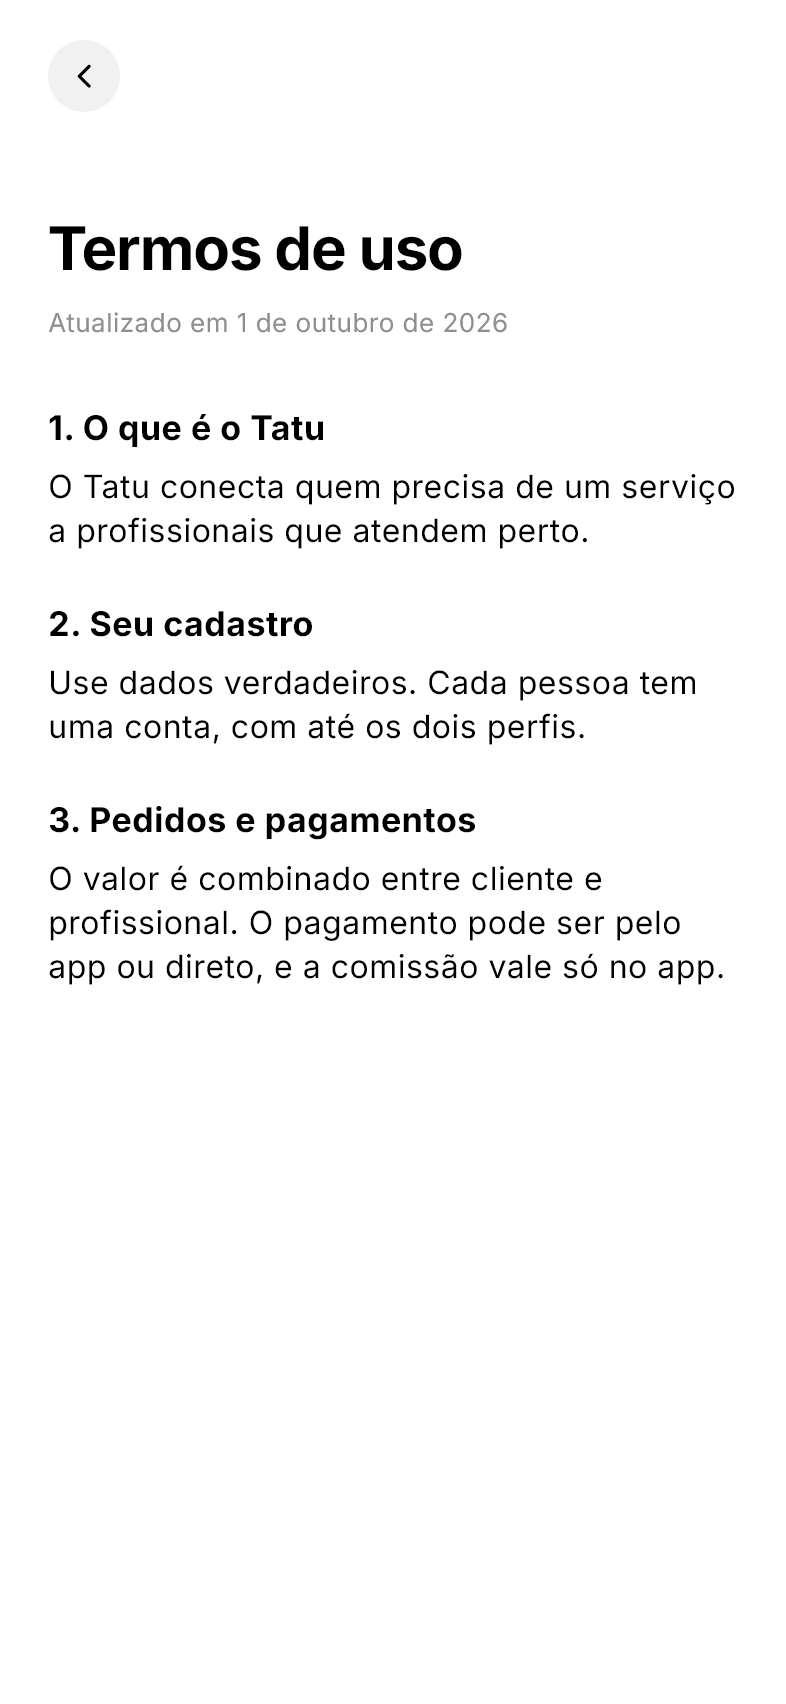
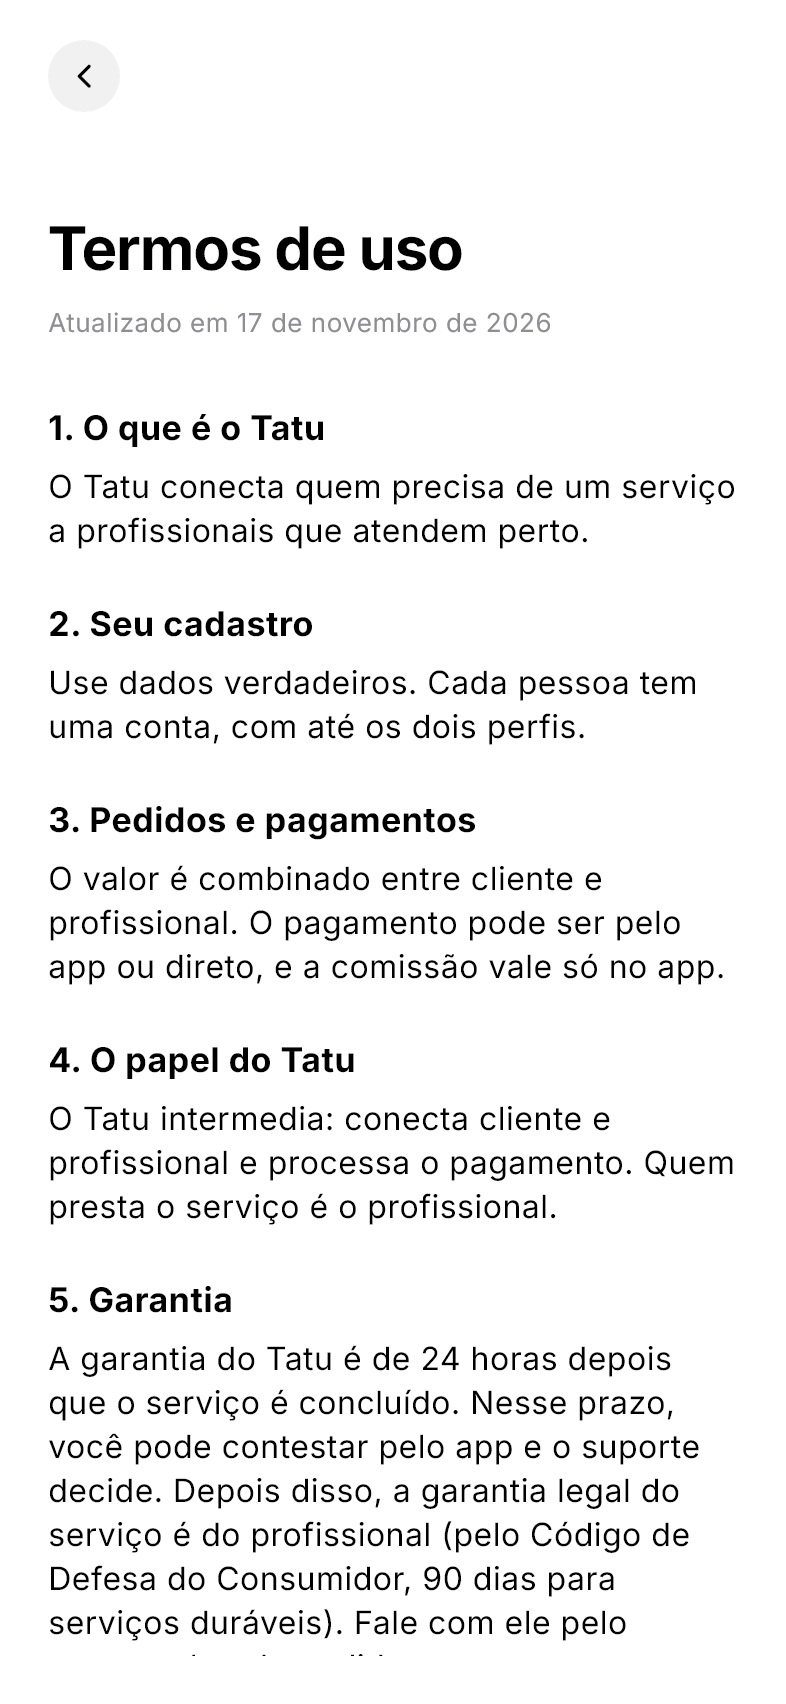
docs: regras v11 e textos da garantia de 24 horas (RN-107, RN-108)
Termos de uso: o Tatu intermedia, garantia do Tatu de 24 horas e garantia legal do serviço com o profissional (TODO de revisão jurídica). Artigo "Como pedir reembolso?" explica o antes e o depois das 24 horas. Os textos do chat dizem "garantia de 24h". RN-109 (fase 2) não foi implementada.

diff --git a/app/test/garantia_test.dart b/app/test/garantia_test.dart
@@ -1,0 +1,43 @@
+import 'dart:io';
+
+import 'package:flutter_test/flutter_test.dart';
+import 'package:tatu/data/ajuda.dart';
+import 'package:tatu/data/documentos.dart';
+
+/// Garantia do Tatu de 24 horas (RN-45, RN-107, RN-108).
+void main() {
+  test('RN-108: termos dizem que o Tatu intermedia e a garantia é de 24 h', () {
+    final texto = termosDeUso.secoes.map((s) => '${s.$1} ${s.$2}').join(' ');
+    expect(texto, contains('O Tatu intermedia'));
+    expect(texto, contains('A garantia do Tatu é de 24 horas'));
+    expect(texto, contains('garantia legal do serviço é do profissional'));
+    expect(texto, contains('Código de Defesa do Consumidor'));
+  });
+
+  test('RN-107: depois de 24 h, chama o profissional pelo mesmo chat', () {
+    final secoes = {for (final s in artigoReembolso.secoes) s.$1: s.$2};
+    expect(secoes.keys, ['Em até 24 horas', 'Depois de 24 horas']);
+    expect(secoes['Depois de 24 horas'], contains('mesmo chat'));
+    expect(secoes['Depois de 24 horas'], contains('outro profissional'));
+  });
+
+  test('RN-107: nenhum texto do app promete garantia sem prazo', () {
+    final semPrazo = <String>[];
+    final aspas = RegExp(r"'([^']*garantia[^']*)'", caseSensitive: false);
+    for (final f in Directory('lib').listSync(recursive: true)) {
+      if (f is! File || !f.path.endsWith('.dart')) continue;
+      for (final linha in f.readAsLinesSync()) {
+        if (linha.trimLeft().startsWith('//')) continue;
+        for (final m in aspas.allMatches(linha)) {
+          final t = m.group(1)!;
+          final temPrazo =
+              t.contains('24') || t.toLowerCase().contains('garantia legal');
+          // Títulos de seção ("5. Garantia") não prometem nada.
+          final titulo = RegExp(r'^\d+\. ').hasMatch(t);
+          if (!temPrazo && !titulo) semPrazo.add('${f.path}: $t');
+        }
+      }
+    }
+    expect(semPrazo, isEmpty);
+  });
+}

diff --git a/app/lib/data/documentos.dart b/app/lib/data/documentos.dart
@@ -7,9 +7,11 @@ class Documento {
   final List<(String titulo, String texto)> secoes;
 }
 
+// TODO(jurídico): revisar os Termos de uso com advogado antes do
+// lançamento, principalmente as seções 4 e 5 (RN-108).
 const termosDeUso = Documento(
   'Termos de uso',
-  'Atualizado em 1 de outubro de 2026',
+  'Atualizado em 17 de novembro de 2026',
   [
     (
       '1. O que é o Tatu',
@@ -22,6 +24,22 @@ const termosDeUso = Documento(
     (
       '3. Pedidos e pagamentos',
       'O valor é combinado entre cliente e profissional. O pagamento pode ser pelo app ou direto, e a comissão vale só no app.',
+    ),
+    // RN-108: o Tatu intermedia.
+    (
+      '4. O papel do Tatu',
+      'O Tatu intermedia: conecta cliente e profissional e processa o '
+          'pagamento. Quem presta o serviço é o profissional.',
+    ),
+    // RN-45, RN-107 e RN-108: garantia do Tatu de 24 horas; a garantia
+    // legal do serviço é do profissional.
+    (
+      '5. Garantia',
+      'A garantia do Tatu é de 24 horas depois que o serviço é concluído. '
+          'Nesse prazo, você pode contestar pelo app e o suporte decide. '
+          'Depois disso, a garantia legal do serviço é do profissional '
+          '(pelo Código de Defesa do Consumidor, 90 dias para serviços '
+          'duráveis). Fale com ele pelo mesmo chat do pedido.',
     ),
   ],
 );

diff --git a/app/lib/data/ajuda.dart b/app/lib/data/ajuda.dart
@@ -56,6 +56,27 @@ const artigoPagamento = Artigo(
   ],
 );
 
+/// RN-45 e RN-107: a garantia do Tatu é de 24 horas; depois, o problema é
+/// entre cliente e profissional, pelo mesmo chat.
+const artigoReembolso = Artigo(
+  'Como pedir reembolso?',
+  resumo: 'A garantia do Tatu vale por 24 horas depois do serviço.',
+  secoes: [
+    (
+      'Em até 24 horas',
+      'Toque em “Algo errado?” no pedido concluído, conte o que houve e '
+          'mande fotos. O suporte olha o chat e decide: o profissional '
+          'refaz sem custo, reembolso parcial ou total.',
+    ),
+    (
+      'Depois de 24 horas',
+      'O pagamento já foi para o profissional. Fale com ele pelo mesmo '
+          'chat, que continua aberto: ele pode refazer ou mandar um novo '
+          'valor. Se preferir, faça um pedido novo com outro profissional.',
+    ),
+  ],
+);
+
 const assuntosAjuda = [
   AssuntoAjuda('Pedidos e profissionais', TablerIcons.tool, [
     Artigo('O profissional não apareceu'),
@@ -68,7 +89,7 @@ const assuntosAjuda = [
       artigoPagamento,
       Artigo('Posso pagar direto ao profissional?'),
       Artigo('Cobraram o valor errado'),
-      Artigo('Como pedir reembolso?'),
+      artigoReembolso,
       Artigo('Como adicionar ou trocar cartão?'),
       Artigo('Pagar com Pix'),
     ],

diff --git a/app/lib/shared/widgets/chat.dart b/app/lib/shared/widgets/chat.dart
@@ -359,9 +359,10 @@ class _NotaContatoOculto extends StatelessWidget {
                 ),
                 const SizedBox(height: 2),
                 Text(
+                  // RN-107: a garantia do Tatu é de 24 horas por serviço.
                   outro == null
-                      ? 'Chame de novo pelo app, com garantia.'
-                      : 'Chame $outro de novo pelo app, com garantia.',
+                      ? 'Chame de novo pelo app, com garantia de 24h.'
+                      : 'Chame $outro de novo pelo app, com garantia de 24h.',
                   style: TatuTexto.nota,
                 ),
               ],
@@ -435,7 +436,7 @@ class BarraMensagem extends StatelessWidget {
     required this.onEnviar,
     required this.onCamera,
     this.bloquearContato = true,
-    this.porQue = 'Pelo Tatu o serviço tem garantia.',
+    this.porQue = 'Pelo Tatu o serviço tem garantia de 24h.',
   });
 
   final TextEditingController controller;

diff --git a/app/lib/features/cliente/mensagens/chat_page.dart b/app/lib/features/cliente/mensagens/chat_page.dart
@@ -552,7 +552,8 @@ class _ChatPageState extends State<ChatPage> {
                 onEnviar: _enviar,
                 onCamera: _anexar,
                 porQue:
-                    'Pelo Tatu o serviço tem garantia. Chame '
+                    // RN-107: garantia de 24 horas por serviço.
+                    'Pelo Tatu o serviço tem garantia de 24h. Chame '
                     '${_c.artigo} ${_c.primeiroNome} de novo pelo app.',
               ),
             ],

diff --git a/docs/regras-de-negocio.md b/docs/regras-de-negocio.md
@@ -1,6 +1,6 @@
 # Tatu · Regras de negócio
 
-Atualizado em 17/11/2026 (v10)
+Atualizado em 17/11/2026 (v11)
 
 Este documento é a fonte única das regras do Tatu: o que o app faz, o que permite e o que proíbe. Se uma tela ou o código discordar daqui, vale o que está aqui.
 
@@ -116,6 +116,9 @@ Quem cancela ou falha não transfere o custo para o outro lado nem para o Tatu.
 | RN-47 | O suporte decide pelo chat e pelas fotos: o profissional refaz sem custo, reembolso parcial ou reembolso total. O valor devolvido sai do repasse do profissional, nunca do Tatu. |
 | RN-48 | O profissional pode contestar uma avaliação injusta. O suporte revisa em até 3 dias úteis e, se for injusta, ela sai da nota. |
 | RN-49 | Quem contesta demais e sem razão, cliente ou profissional, perde o direito à garantia ou a conta. |
+| RN-107 | A garantia do Tatu é de 24 horas (RN-45). Depois disso o dinheiro já foi para o profissional e o problema é entre cliente e profissional: o cliente chama o mesmo profissional pelo chat, que continua aberto (RN-42), e ele refaz de graça ou manda um novo valor; ou o cliente faz um pedido novo com outro profissional. |
+| RN-108 | Os termos de uso deixam claro que o Tatu intermedia e que a garantia do Tatu é de 24 horas. A garantia legal do serviço (Código de Defesa do Consumidor, 90 dias para serviço durável) é do profissional. Revisar com advogado antes do lançamento. |
+| RN-109 | **(fase 2)** O profissional pode informar no perfil uma garantia própria (ex.: 30 dias). Dentro desse prazo, o cliente que chamar de volta pelo mesmo chat não paga o reparo. A garantia aparece na busca e no perfil. |
 | RN-76 | Depois de combinar o valor, o profissional tem 10 minutos para tocar "Estou a caminho". Sem isso, o app pergunta "Ainda vai?" e o cliente vê "Ainda não saiu". |
 | RN-77 | Sem resposta ao "Ainda vai?" em 5 minutos, ou com "Não consigo ir", o pedido volta à busca automaticamente e nada é cobrado do cliente. Isso conta como abandono para o profissional. |
 | RN-78 | Se o profissional passar do dobro do tempo previsto de chegada, o cliente pode chamar outro sem pagar nada, nem a visita. |
@@ -210,7 +213,7 @@ Situações que podem dar errado no uso real do app. Resolvemos um por vez, em o
 | P-02 | O profissional chega e o cliente não está. | Resolvido | RN-80 a RN-82 |
 | P-03 | Cliente e profissional fecham por fora na próxima vez, sem o app. | Decidido · fase 2 | RN-83 a RN-86 |
 | P-04 | O profissional quebra algo na casa durante o serviço. | Adiado: fora do escopo por enquanto | — |
-| P-05 | O problema volta dias depois do serviço (a contestação vale só 24 horas). | Adiado | — |
+| P-05 | O problema volta dias depois do serviço (a contestação vale só 24 horas). | Decidido · garantia própria na fase 2 | RN-107 a RN-109 |
 | P-06 | Preço abusivo, principalmente em emergência. | A resolver | — |
 | P-07 | Material comprado no meio do serviço, fora do combinado. | A resolver | — |
 | P-08 | Cartão recusado na hora da cobrança final. | A resolver | — |
@@ -225,6 +228,7 @@ Situações que podem dar errado no uso real do app. Resolvemos um por vez, em o
 
 | Data | Regras | Mudança |
 | --- | --- | --- |
+| 17/11/2026 | RN-107 a RN-109 | Depois das 24 horas: problema entre cliente e profissional, aviso do CDC nos termos, garantia própria do profissional na fase 2. |
 | 17/11/2026 | RN-96, RN-99 a RN-106 | Entrega à distância malfeita: prévia protegida, até 2 entregas, cliente aprova, sinal, reembolso pelo suporte, pausa por sinais sem entrega. |
 | 14/11/2026 | RN-92 a RN-98 | Serviço à distância: seletor No local / À distância na Home, busca sem raio, sem visita, entrega pelo chat. |
 | 14/11/2026 | RN-42, RN-87 a RN-91 | A conversa não fecha mais depois do serviço. Cada valor combinado é um pagamento, com comissão em cada um. Limite de 7 dias por valor. Parcelamento. |
